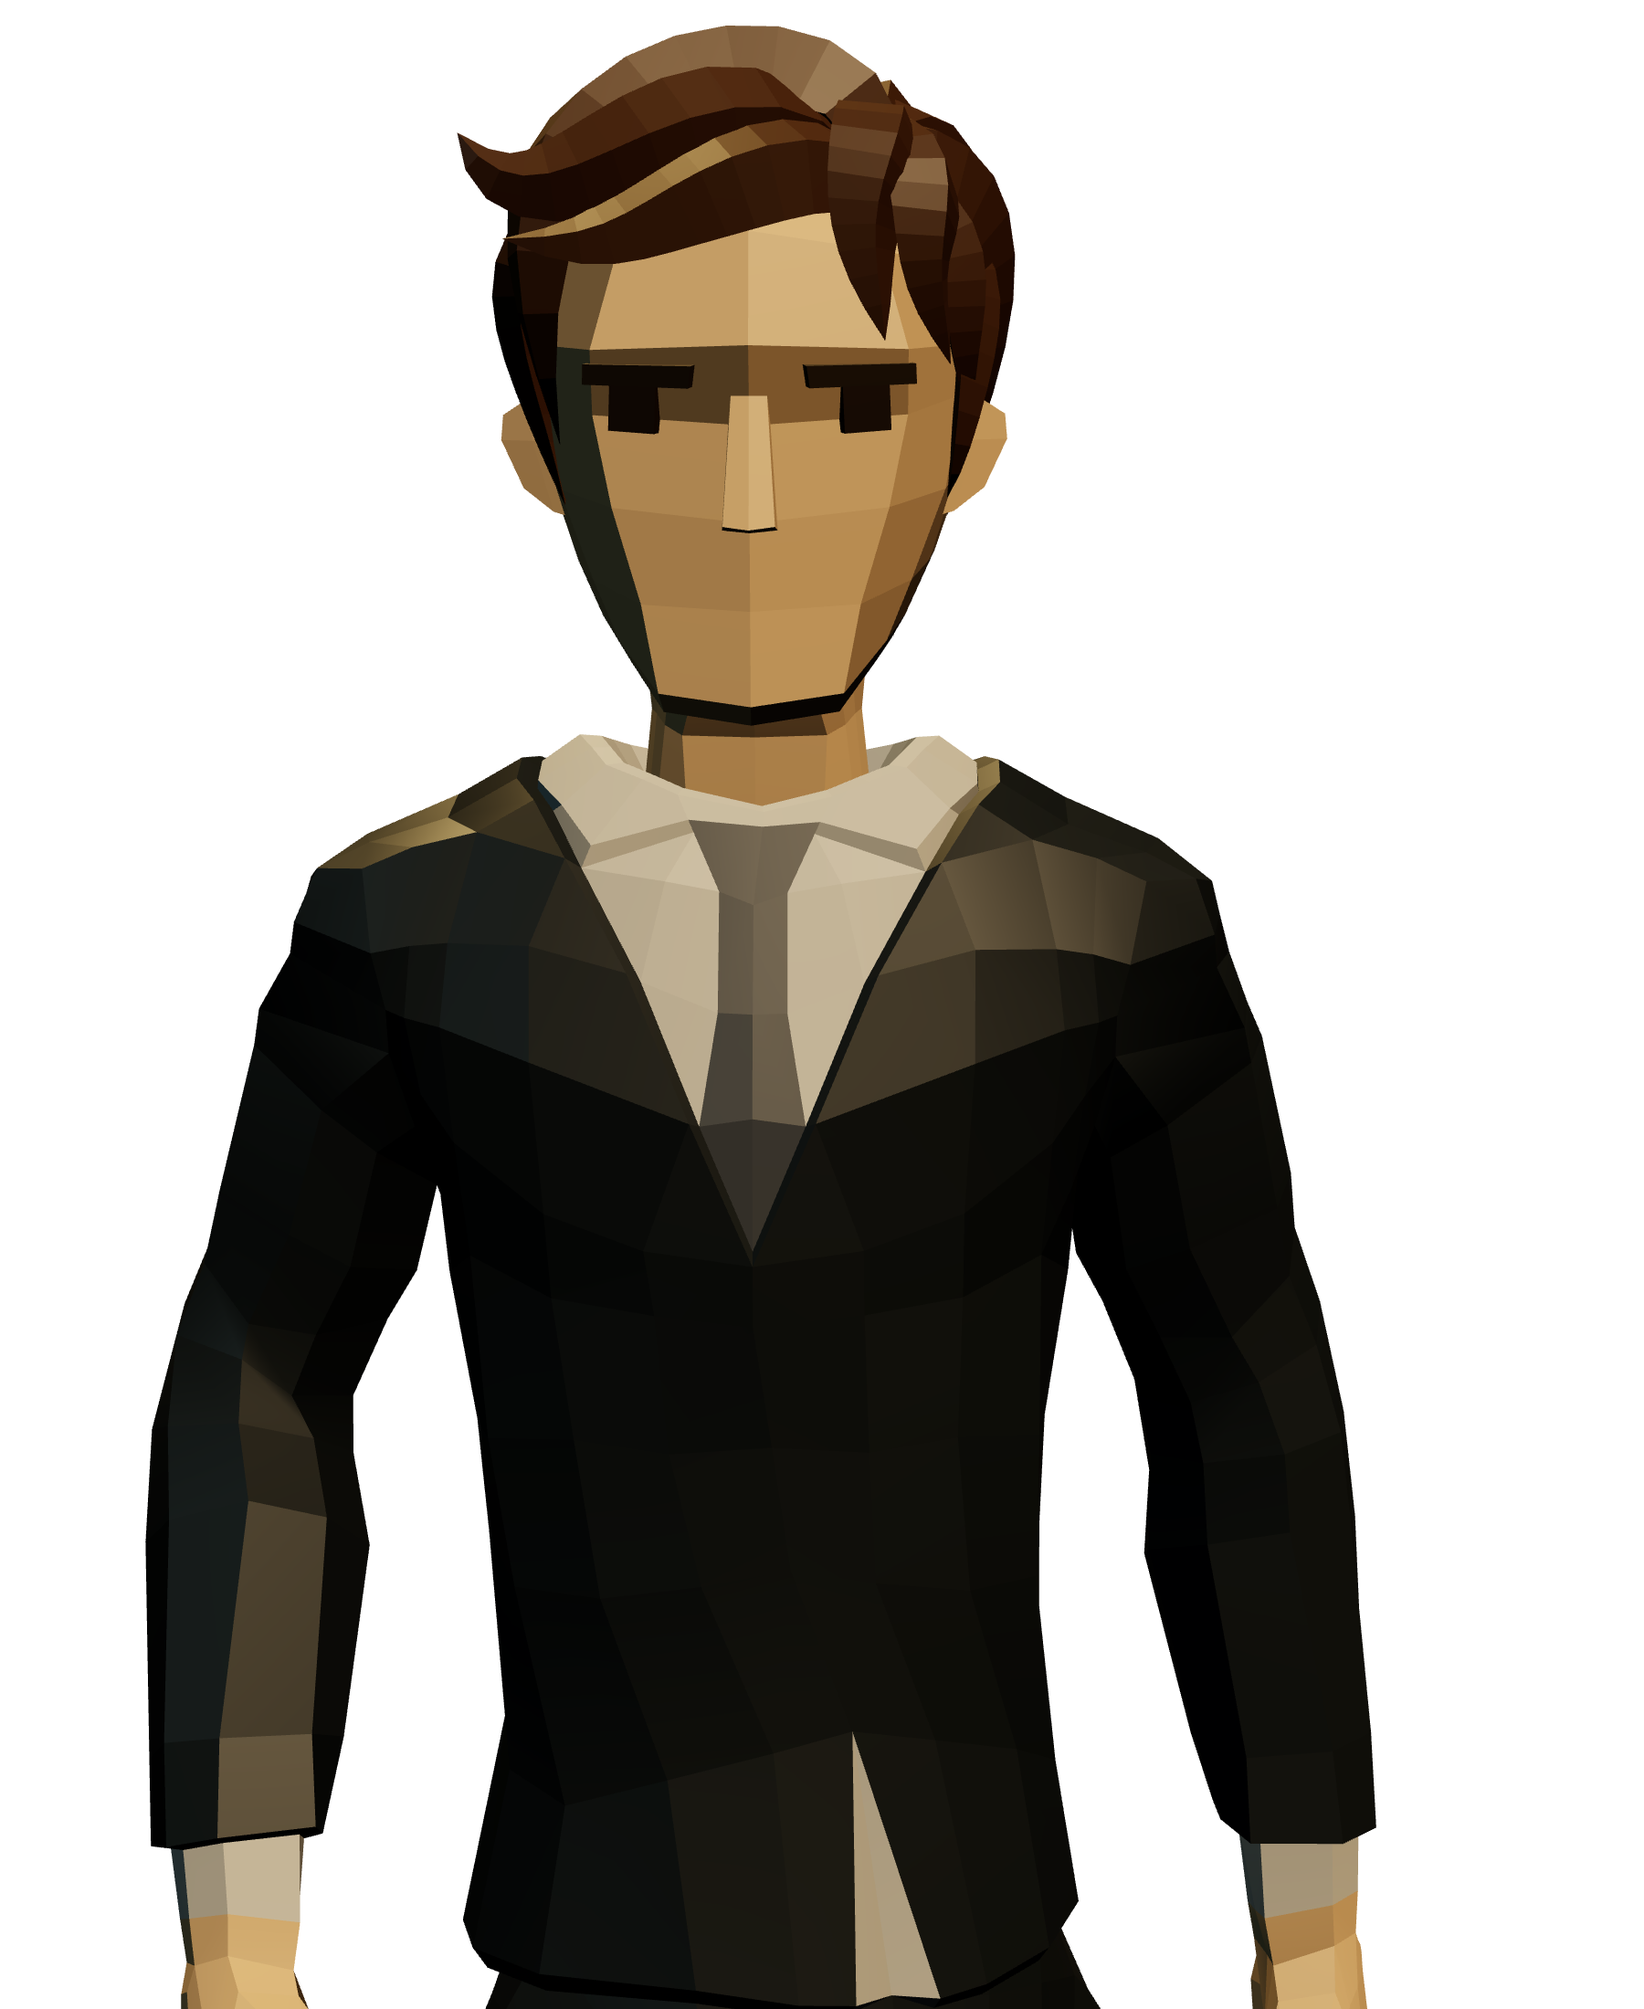
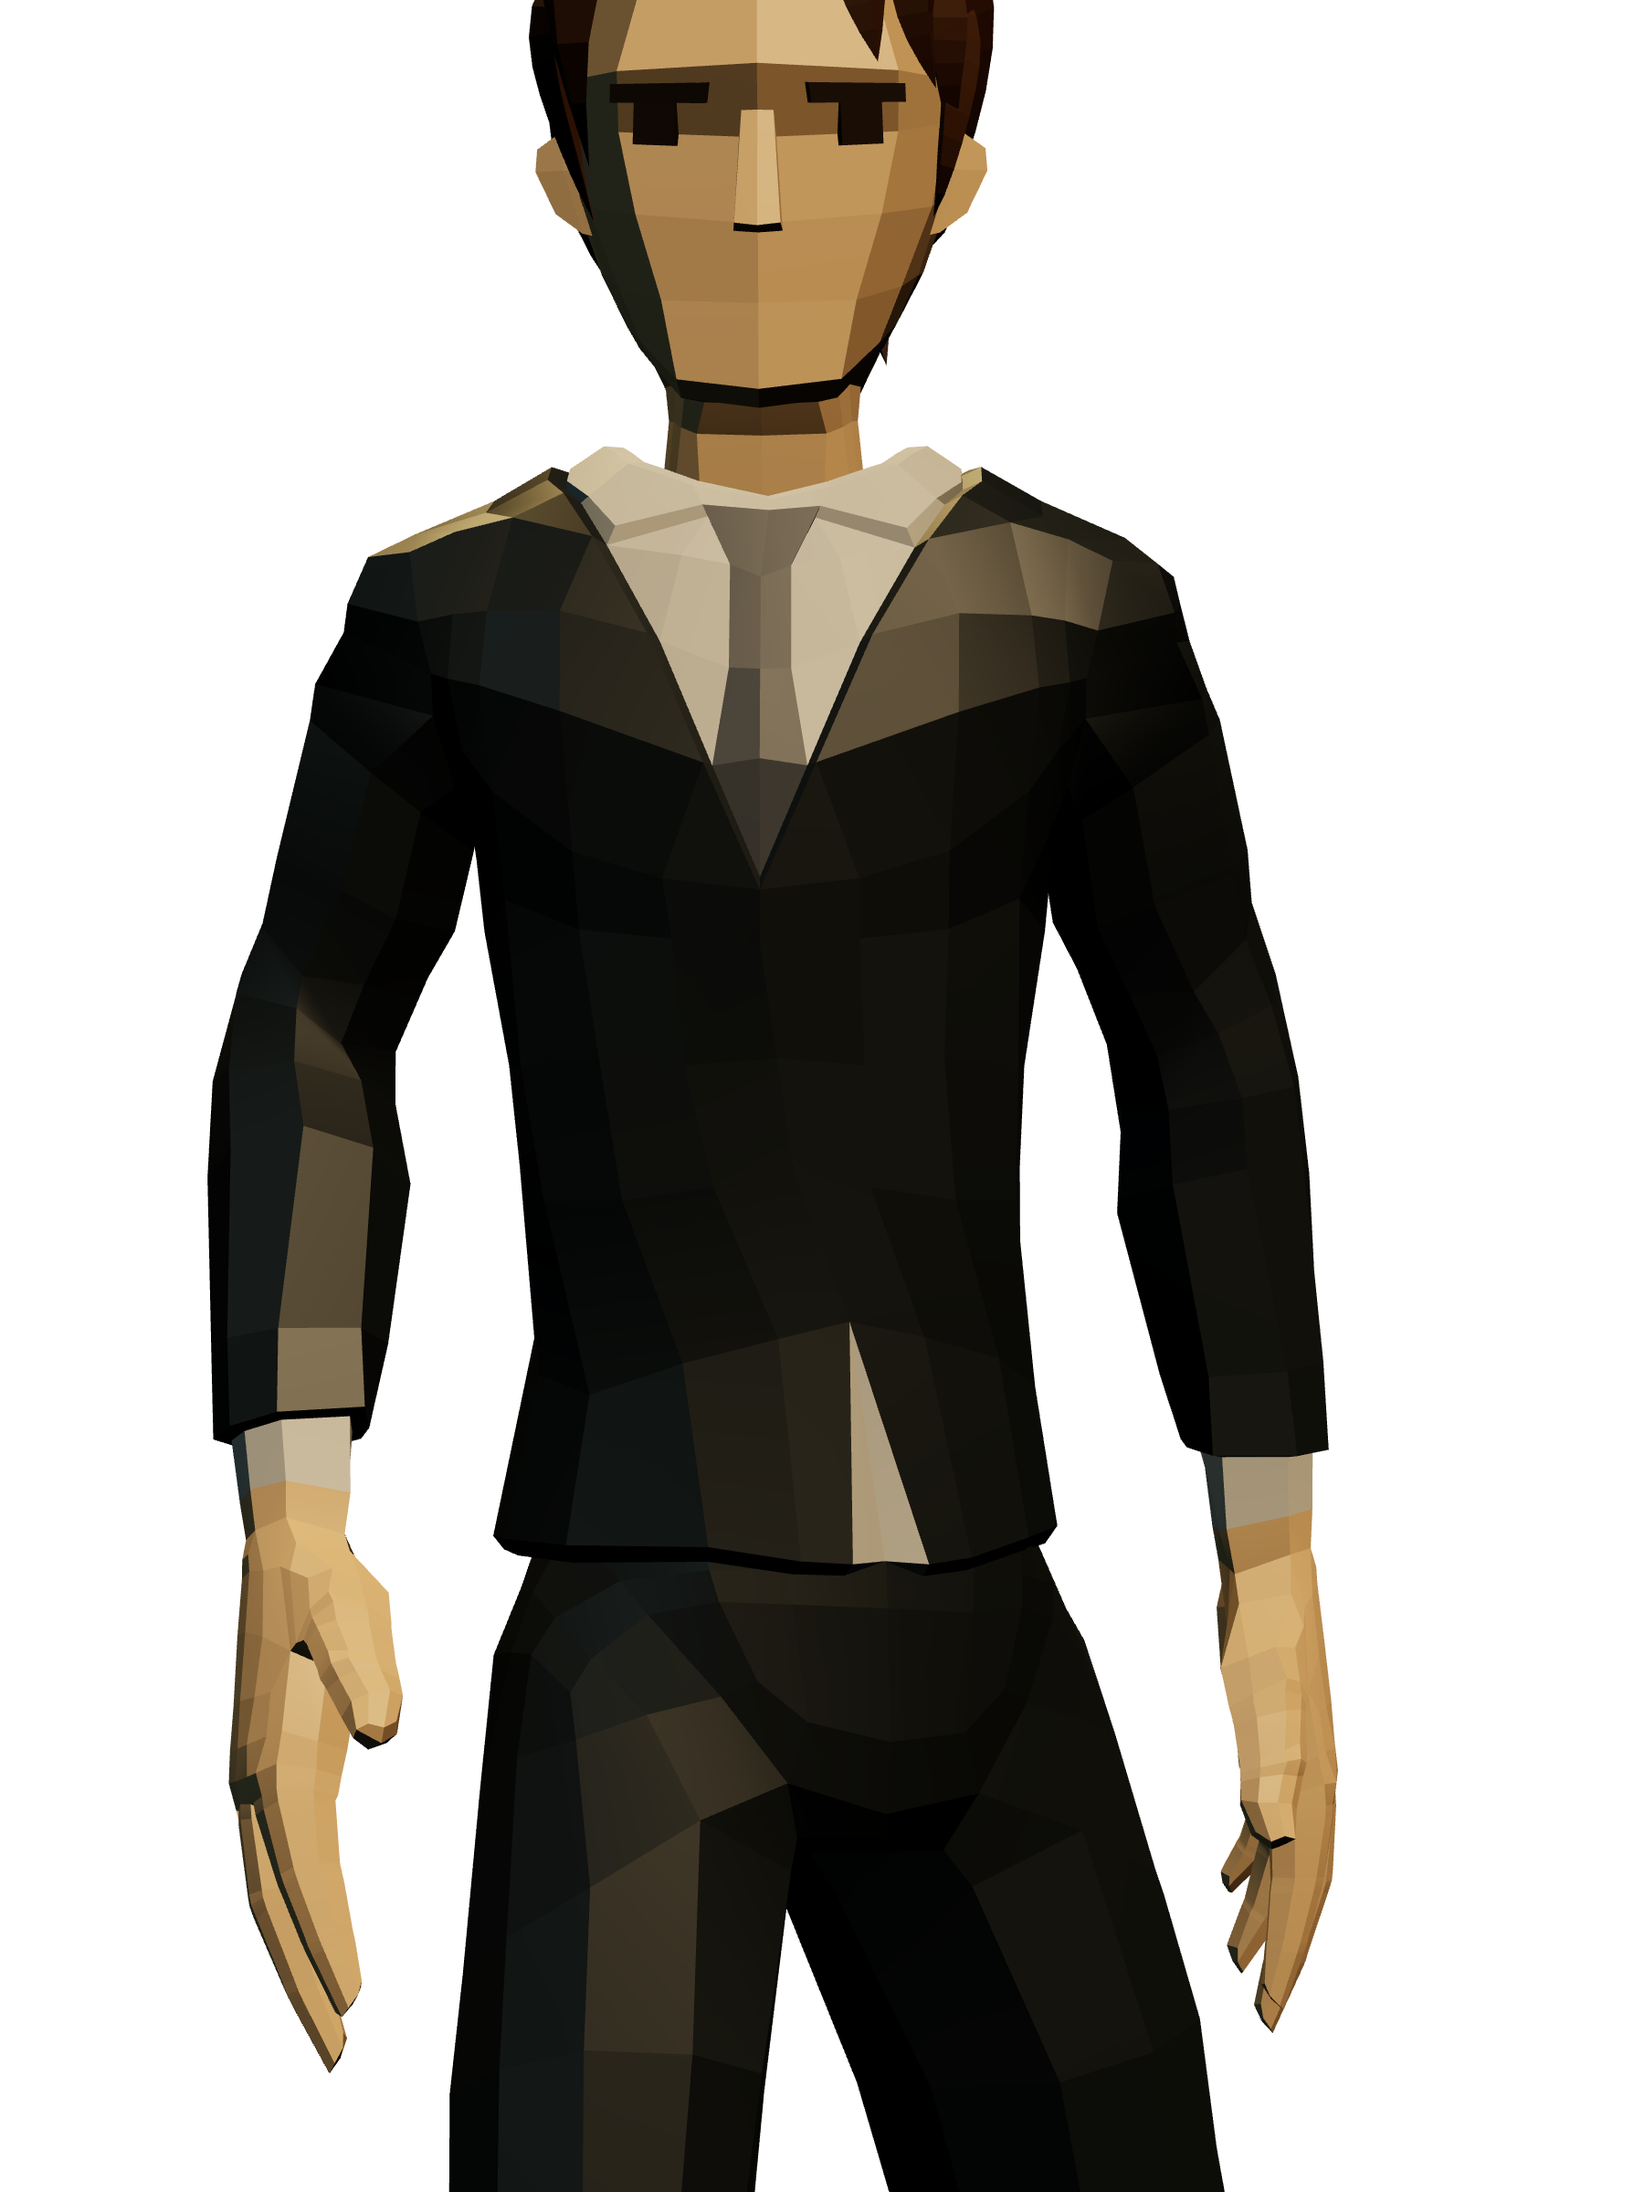
Fix seat badges overflowing the rail; bring dealer to the table
- Tuned seat 1/8 (the widest) to sit almost exactly on the gold rim by
  solving the table's own ellipse equation, and widened the rim
  slightly to meet them — they were sitting ~10% outside it before.
- Re-rendered the dealer sprite with a fuller waist-up crop (was
  chest-up only) and moved him right up to the table's rail edge, so
  he reads as standing at the table instead of floating above it.
- Fixed the dealer image using a vh-based size, which bypassed the
  scene's uniform scaling system entirely — switched to a fixed
  reference-canvas px value like everything else.
- Shrank the logo panel behind him so it doesn't peek out past his
  now-wider silhouette.

diff --git a/src/components/casino/LogoPanel.tsx b/src/components/casino/LogoPanel.tsx
@@ -18,7 +18,7 @@ export function LogoPanel() {
         }}
       />
       <div
-        className="relative flex flex-col items-center px-5 pt-3 pb-4 rounded-t-[56px] rounded-b-lg"
+        className="relative flex flex-col items-center px-4 pt-2 pb-3 rounded-t-[48px] rounded-b-lg"
         style={{
           background:
             "radial-gradient(ellipse 120% 80% at 50% 0%, rgba(58,42,22,0.9), rgba(8,6,4,0.95) 60%), repeating-linear-gradient(115deg, rgba(255,255,255,0.025) 0 2px, transparent 2px 9px)",
@@ -26,7 +26,7 @@ export function LogoPanel() {
           boxShadow: "0 0 24px rgba(217,184,118,0.35), inset 0 0 18px rgba(0,0,0,0.6)",
         }}
       >
-        <svg width="30" height="22" viewBox="0 0 24 24" fill="none" className="mb-0.5">
+        <svg width="24" height="18" viewBox="0 0 24 24" fill="none" className="mb-0.5">
           <path
             d="M3 8l3.5 3L12 5l5.5 6L21 8l-1.6 9H4.6L3 8Z"
             fill="var(--gold-400)"
@@ -35,13 +35,13 @@ export function LogoPanel() {
           />
         </svg>
         <div className="flex flex-col items-center leading-[0.9]" style={{ fontFamily: "var(--font-display)" }}>
-          <span className="text-[11px] tracking-[0.3em]" style={{ color: "var(--gold-300, #e8cf9a)" }}>
+          <span className="text-[9px] tracking-[0.25em]" style={{ color: "var(--gold-300, #e8cf9a)" }}>
             LA
           </span>
-          <span className="text-[20px] font-bold tracking-wide text-gold-gradient">TABLE</span>
-          <span className="text-[22px] font-black tracking-wide text-gold-gradient">21</span>
+          <span className="text-[16px] font-bold tracking-wide text-gold-gradient">TABLE</span>
+          <span className="text-[18px] font-black tracking-wide text-gold-gradient">21</span>
         </div>
-        <div className="flex gap-1.5 mt-1 text-[9px]" style={{ opacity: 0.8 }}>
+        <div className="flex gap-1 mt-1 text-[8px]" style={{ opacity: 0.8 }}>
           <span style={{ color: "#e8cf9a" }}>♠</span>
           <span style={{ color: "#a9414c" }}>♥</span>
           <span style={{ color: "#e8cf9a" }}>♣</span>

diff --git a/src/lib/table-layout.ts b/src/lib/table-layout.ts
@@ -10,21 +10,27 @@ export interface Point {
   y: number; // percent of the stage height
 }
 
-export const DEALER_POS: Point = { x: 50, y: 25 };
-export const SHOE_POS: Point = { x: 50, y: 33 };
+// Dealer's feet sit right at the table's own top rail edge (TABLE_CENTER.y
+// - TABLE_RADIUS.y = 34) — close enough to read as standing right at the
+// table rather than floating above it.
+export const DEALER_POS: Point = { x: 50, y: 33 };
+export const SHOE_POS: Point = { x: 50, y: 38 };
 
 export const TABLE_CENTER: Point = { x: 50, y: 80 };
-export const TABLE_RADIUS = { x: 62, y: 46 }; // percent — wide enough to run off both edges
+export const TABLE_RADIUS = { x: 66, y: 46 }; // percent — wide enough to run off both edges
 
+// Tuned so seat 1/8 (the widest) land almost exactly on the gold rim
+// (solving the ellipse equation for TABLE_CENTER/TABLE_RADIUS above) —
+// previously they sat noticeably outside it.
 export const SEAT_POSITIONS: Record<number, Point> = {
-  1: { x: 92, y: 40 },
-  2: { x: 80, y: 55 },
-  3: { x: 65, y: 65 },
-  4: { x: 56, y: 69 },
-  5: { x: 44, y: 69 },
-  6: { x: 35, y: 65 },
-  7: { x: 20, y: 55 },
-  8: { x: 8, y: 40 },
+  1: { x: 87, y: 42 },
+  2: { x: 77, y: 56 },
+  3: { x: 64, y: 66 },
+  4: { x: 55, y: 70 },
+  5: { x: 45, y: 70 },
+  6: { x: 36, y: 66 },
+  7: { x: 23, y: 56 },
+  8: { x: 13, y: 42 },
 };
 
 export function seatPosition(seatNumber: number): Point {

diff --git a/src/components/casino/DealerMark.tsx b/src/components/casino/DealerMark.tsx
@@ -25,7 +25,7 @@ export function DealerMark({ active, phase }: DealerMarkProps) {
           alt="Croupier"
           draggable={false}
           className="pointer-events-none"
-          style={{ height: "min(19vh, 180px)", width: "auto" }}
+          style={{ height: 230, width: "auto" }}
           animate={{
             filter: active
               ? "drop-shadow(0 6px 10px rgba(0,0,0,0.6)) drop-shadow(0 0 26px rgba(217,184,118,0.55))"

diff --git a/src/components/casino/CasinoTable.tsx b/src/components/casino/CasinoTable.tsx
@@ -166,7 +166,7 @@ export function CasinoTable({ pseudo }: { pseudo: string }) {
           >
             <div
               className="absolute -translate-x-1/2 -translate-y-1/2"
-              style={{ left: `${DEALER_POS.x}%`, top: `${DEALER_POS.y - 17}%` }}
+              style={{ left: `${DEALER_POS.x}%`, top: `${DEALER_POS.y - 14}%` }}
             >
               <LogoPanel />
             </div>
